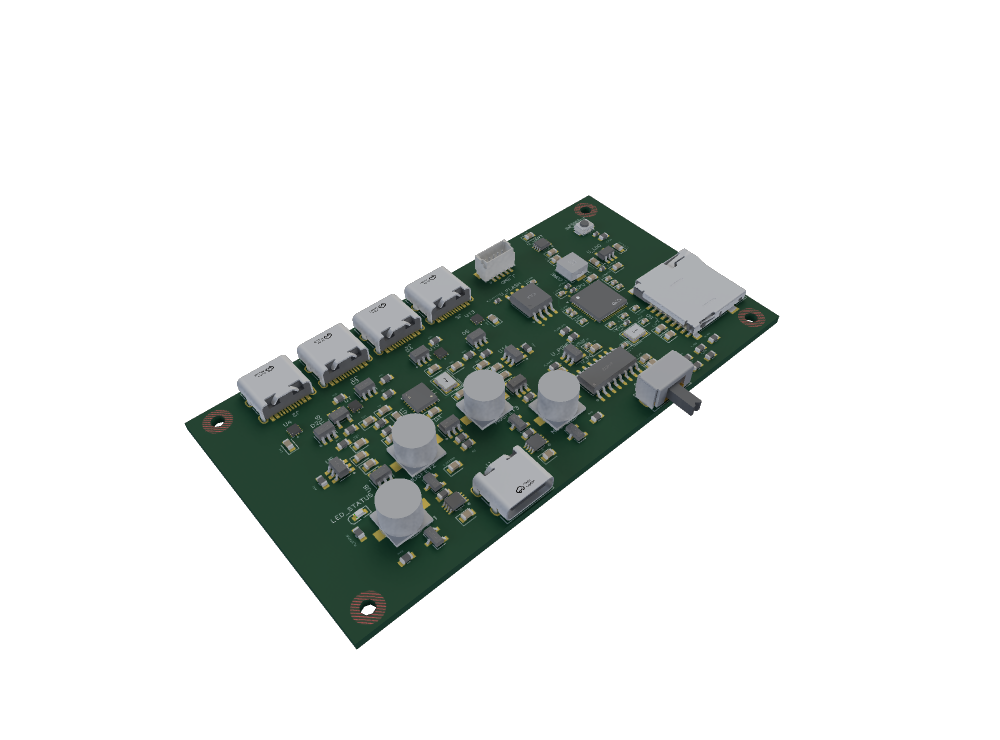
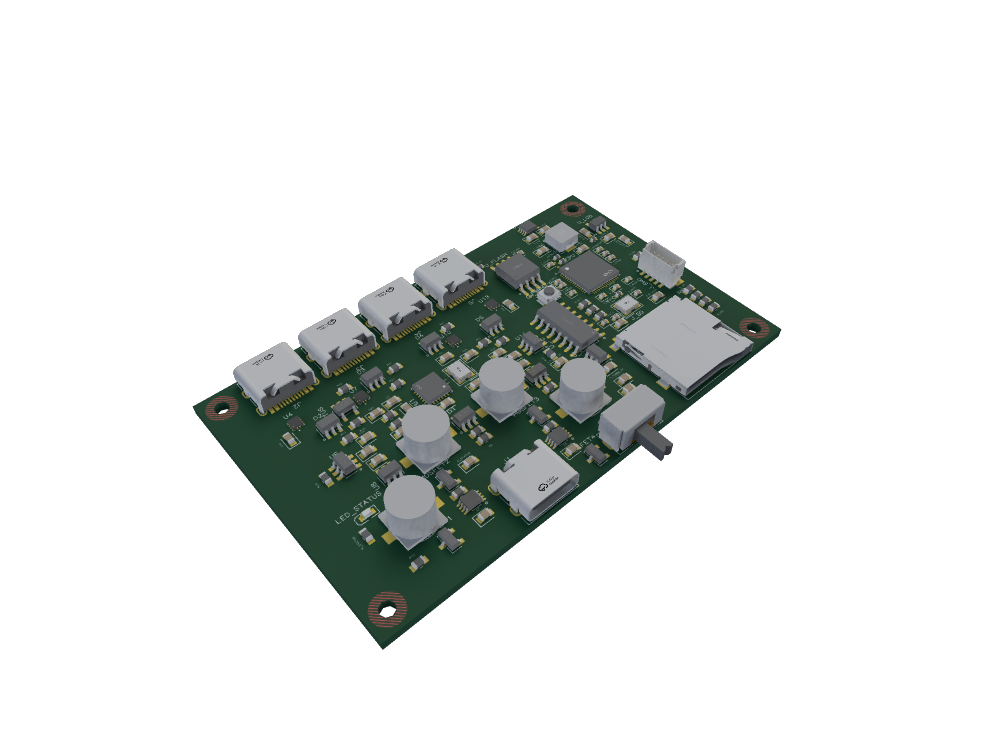
Publish compact motherboard mounting dimensions and front-panel drawing

Changed region(s): [[0.186, 0.2486, 0.775, 0.8703]]

diff --git a/documentation/drawings/motherboard.circuit.tsx b/documentation/drawings/motherboard.circuit.tsx
@@ -3,42 +3,42 @@ import { MountingSheet } from "./MountingSheet"
 export const mount = {
   "title": "RP2350 USB Motherboard",
   usbPorts: [
-    { ref: "J1", x: -14, y: -22.59, edge: "bottom", role: "Console", labelOffset: [-18, -33] },
-    { ref: "J2", labelOffset: [-34, 42], x: -30.2, y: 22.59, edge: "top", role: "Downstream" },
-    { ref: "J3", x: -19.4, y: 22.59, edge: "top", role: "Downstream" },
-    { ref: "J4", x: -8.6, y: 22.59, edge: "top", role: "Downstream" },
-    { ref: "J5", x: 2.2, y: 22.59, edge: "top", role: "Downstream" },
+    { ref: "J1", x: -10.5, y: -22.59, edge: "bottom", role: "Console", labelOffset: [-18, -33] },
+    { ref: "J2", labelOffset: [-34, 42], x: -26.7, y: 22.59, edge: "top", role: "Downstream" },
+    { ref: "J3", x: -15.9, y: 22.59, edge: "top", role: "Downstream" },
+    { ref: "J4", x: -5.1, y: 22.59, edge: "top", role: "Downstream" },
+    { ref: "J5", x: 5.7, y: 22.59, edge: "top", role: "Downstream" },
   ],
   heightNote: "Power lever projects 4.75 mm past the J1 edge",
   swdHeader: true,
   controls: [
-    { ref: "J_SWD", label: "J_SWD · JST SH", x: 15, y: 18, labelX: 32, labelY: 36 },
-    { ref: "J_SD", label: "microSD", x: 43.6, y: -8.95, labelX: 52, labelY: -14 },
-    { ref: "SW_POWER", label: "POWER", x: 15.25, y: -27.75, labelX: 41, labelY: -32 },
-    { ref: "SW_RESET", label: "RESET", x: 35.5, y: 16, labelX: 50, labelY: 16 },
+    { ref: "J_SWD", label: "J_SWD · JST SH", x: 33, y: -2, labelX: 46, labelY: 3 },
+    { ref: "J_SD", label: "microSD", x: 23.4, y: -22.7, labelX: 42, labelY: -26 },
+    { ref: "SW_POWER", label: "POWER", x: 5, y: -27.75, labelX: 13, labelY: -34 },
+    { ref: "SW_RESET", label: "RESET", x: 15.75, y: 6, labelX: 39, labelY: 24 },
   ],
-  "width": 88,
+  "width": 76,
   "height": 46,
   "thickness": 1.6,
   "diameter": 2.2,
   "holes": [
     [
-      -40,
+      -35,
       -20
     ],
     [
-      -40,
+      -35,
       20
     ],
     [
-      40,
+      35,
       -20
     ],
     [
-      40,
+      35,
       20
     ]
   ]
 } as const
 
-export default () => <MountingSheet mount={mount} modelFile="motherboard.glb" modelRevision="28e5051c0660aafe3eaeb988261b76ffa54298a9" />
+export default () => <MountingSheet mount={mount} modelFile="motherboard.glb" modelRevision="79be24743b97f8511803ff3bcd1c76675e5aff84" />

diff --git a/documentation/src/components/CadDownloads.tsx b/documentation/src/components/CadDownloads.tsx
@@ -3,7 +3,7 @@ import React from "react"
 const original = "https://github.com/tscircuit/devices.tscircuit.com/releases/download/board-cad-2026-11-21"
 
 export default function CadDownloads({board}: {board: string}) {
-  const release = board === "motherboard" ? "https://github.com/tscircuit/devices.tscircuit.com/releases/download/swd-microsd-motherboard-v1" : ["speaker","video-player","large-rgb"].includes(board) ? "https://github.com/tscircuit/devices.tscircuit.com/releases/download/top-side-boards-v1" : board === "buzzer" ? "https://github.com/tscircuit/devices.tscircuit.com/releases/download/embedded-boards-v1" : original
+  const release = board === "motherboard" ? "https://github.com/tscircuit/devices.tscircuit.com/releases/download/compact-front-microsd-motherboard-v1" : ["speaker","video-player","large-rgb"].includes(board) ? "https://github.com/tscircuit/devices.tscircuit.com/releases/download/top-side-boards-v1" : board === "buzzer" ? "https://github.com/tscircuit/devices.tscircuit.com/releases/download/embedded-boards-v1" : original
   return (
     <nav className="cad-downloads" aria-label="Download board CAD">
       <a href={release + "/" + board + ".glb"}>Download GLB</a>
